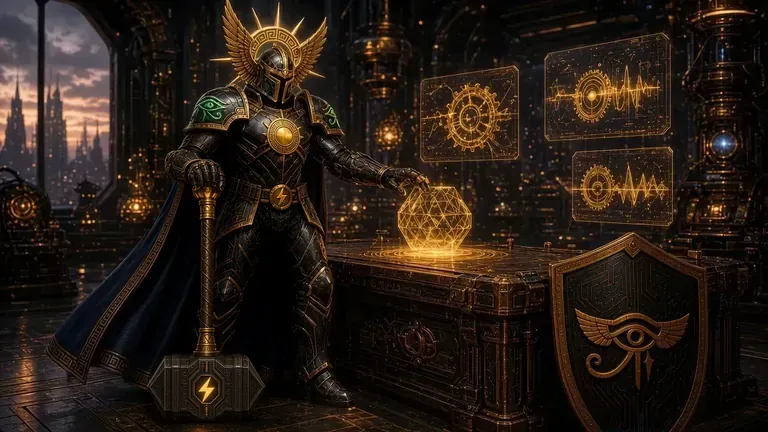
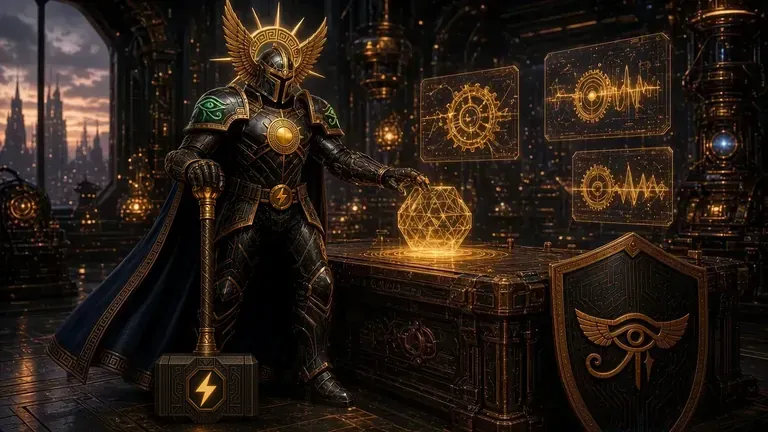
EYES-CANON-3: redo to match Sherif's three examples (8:30 PM)
Far-shoulder Eye of Horus in the examples' line style, near-shoulder blobs painted out
(Launch, Shard, Forge thumbs); examples hero hammer gets the employ bolt panel.
Chat hero and Forge hammer already match the examples, so they go back to main.
ART-CANON: 8:30 PM rulings, shoulder-eye placement, two suit styles.

Changed region(s): [[0.1875, 0.8125, 0.3438, 0.963]]

diff --git a/tests/hero-uniqueness.test.js b/tests/hero-uniqueness.test.js
@@ -290,7 +290,7 @@ assert(oldHits.length === 0, 'old relay-station / field-lab / gox-beacon / citad
 /* ART-UPLIFT-3: pilot gets new scoped-workbench art (Sherif 8:41 PM) and examples a canon redo (hammer bolt on both faces).
    EXAMPLES-NO-HAMMER-1 (Sherif 5:10 PM ET, Nov 25): the examples hero has the hammer removed, so its byte pins moved, and it has a new file stem so cache-first sw.js serves the new picture.
    EXAMPLES-CANON-2 (Sherif 6:01 PM ET, Nov 25): canon hammer leaning back in, new '-c2' stem and byte pins.
-   EYES-CANON-3 (Sherif 8:00 PM ET, Nov 25): hammer head given its canon hexagonal hump ends, new '-c3' stem and byte pins. */
+   EYES-CANON-3 (Sherif 8:30 PM ET, Nov 25): hammer head matched to his employ/pilot examples (plain block, bolt panel), new '-c3' stem and byte pins. */
 var supplied = {
   'assets/art/hero-contact-comms-district-1672.webp': 244690,
   'assets/art/hero-contact-comms-district-768.webp': 76200,
@@ -298,8 +298,8 @@ var supplied = {
   'assets/art/hero-moment-research-garden-768.webp': 82366,
   'assets/art/hero-docs-archive-light-1280.webp': 157536,
   'assets/art/hero-docs-archive-light-768.webp': 73704,
-  'assets/art/hero-examples-workbench-c3-1280.webp': 131992,
-  'assets/art/hero-examples-workbench-c3-768.webp': 57114,
+  'assets/art/hero-examples-workbench-c3-1280.webp': 131470,
+  'assets/art/hero-examples-workbench-c3-768.webp': 57084,
   'assets/art/hero-gox-storm-signal-1280.webp': 147906,
   'assets/art/hero-gox-storm-signal-768.webp': 70348,
   'assets/art/hero-legal-hall-records-1280.webp': 91930,

diff --git a/tests/art-uplift-2.test.js b/tests/art-uplift-2.test.js
@@ -118,7 +118,7 @@ assert(legalClass['licence.html'].indexOf('rt-art-hero-wide') === -1, 'licence k
 /* 3. Destination thumbnails on section cards (ART-UPLIFT-3: re-cut from the new chat, shard, forge, employ and launch heroes). */
 var THUMBS = {
   'Launch-Ra-Thor.html': [
-    ['/chat.html', 'chat-library-counsel-eyes'],
+    ['/chat.html', 'chat-library-counsel'],
     ['/sovereign-shard.html', 'shard-guardian-sanctum-c3'],
     ['/web-forge.html', 'forge-anvil-lattice-c3'],
     ['/employ.html', 'employ-commission-hall'],
@@ -155,8 +155,7 @@ Object.keys(THUMBS).forEach(function (page) {
     });
     /* The thumbnail is a crop of the destination page's own hero. */
     var dest = pair[0].replace(/^\//, '');
-    /* EXAMPLES-NO-HAMMER-1 / EXAMPLES-CANON-2 / EYES-CANON-3: a '-nh', '-c2' or '-c3' stem is the same crop, repainted (new name so cache-first sw.js refreshes it).
-       The chat thumb follows the chat hero's own '-eyes' stem, so it matches without stripping. */
+    /* EXAMPLES-NO-HAMMER-1 / EXAMPLES-CANON-2 / EYES-CANON-3: a '-nh', '-c2' or '-c3' stem is the same crop, repainted (new name so cache-first sw.js refreshes it). */
     assert(heroIdByPage[dest] === 'hero-' + id.replace(/-(nh|c2|c3)$/, ''), page + ' card to ' + dest + ' shows that page\'s hero (' + heroIdByPage[dest] + ')');
     /* The card stays one link: either the card is the <a>, or it has exactly one stretched link. */
     var openers = ['<a href="' + pair[0] + '" class="rt-card-uniform', '<div class="rt-card-uniform', '<section class="rt-example-card'];

diff --git a/chat.html b/chat.html
@@ -121,7 +121,7 @@
 
   <main class="relative z-10 flex-1 flex flex-col max-w-3xl w-full mx-auto px-3 sm:px-4 py-3" data-rt-prose>
     <figure class="rt-art-hero rounded-2xl">
-      <img src="/assets/art/hero-chat-library-counsel-eyes-768.webp" srcset="/assets/art/hero-chat-library-counsel-eyes-768.webp 768w, /assets/art/hero-chat-library-counsel-eyes-1672.webp 1672w" sizes="(max-width: 780px) 100vw, 736px" width="1672" height="941" alt="Ra-Thor sits in a moonlit library alcove with his lightning-marked hammer and black and gold shield, listening closely to a young traveler in a teal hooded cloak, with soft gold lights floating between them." fetchpriority="high" decoding="async">
+      <img src="/assets/art/hero-chat-library-counsel-768.webp" srcset="/assets/art/hero-chat-library-counsel-768.webp 768w, /assets/art/hero-chat-library-counsel-1672.webp 1672w" sizes="(max-width: 780px) 100vw, 736px" width="1672" height="941" alt="Ra-Thor sits in a moonlit library alcove with his lightning-marked hammer and black and gold shield, listening closely to a young traveler in a teal hooded cloak, with soft gold lights floating between them." fetchpriority="high" decoding="async">
     </figure>
     <div class="mb-2.5 rounded-2xl border border-amber-300/20 bg-zinc-950/80 px-3 py-2.5">
       <div class="flex flex-wrap items-center gap-1.5 mb-2">

diff --git a/Launch-Ra-Thor.html b/Launch-Ra-Thor.html
@@ -50,7 +50,7 @@ body { font-family: 'Inter', system-ui, sans-serif; }
 
         <div class="mt-12 grid md:grid-cols-2 gap-5 rt-card-grid rt-card-grid--md">
             <a href="/chat.html" class="rt-card-uniform block rounded-3xl p-7 sm:p-8 hover:border-amber-300/70 transition-colors">
-                <img class="rt-card-thumb" src="/assets/art/thumb-chat-library-counsel-eyes-480.webp" srcset="/assets/art/thumb-chat-library-counsel-eyes-480.webp 480w, /assets/art/thumb-chat-library-counsel-eyes-720.webp 720w" sizes="(min-width: 768px) 440px, calc(100vw - 6rem)" width="720" height="315" alt="" loading="lazy" decoding="async">
+                <img class="rt-card-thumb" src="/assets/art/thumb-chat-library-counsel-480.webp" srcset="/assets/art/thumb-chat-library-counsel-480.webp 480w, /assets/art/thumb-chat-library-counsel-720.webp 720w" sizes="(min-width: 768px) 440px, calc(100vw - 6rem)" width="720" height="315" alt="" loading="lazy" decoding="async">
                 <div class="text-amber-300 text-xs font-semibold tracking-wider" data-i18n="launchChatKicker">LATTICE CHAT</div>
                 <div class="mt-1 text-xs text-white/45" data-i18n="launchChatMeta">14.15.6 · privacy-first surface</div>
                 <div class="mt-3 text-2xl sm:text-3xl font-semibold" data-i18n="launchChatTitle">Offline-first sessions</div>

diff --git a/tests/art-uplift-3.test.js b/tests/art-uplift-3.test.js
@@ -18,7 +18,7 @@ function figure(html) {
 var NEW = {
   "Launch-Ra-Thor.html": "hero-launch-lattice-terrace",
   "briefing.html": "hero-briefing-bridge-landing",
-  "chat.html": "hero-chat-library-counsel-eyes",
+  "chat.html": "hero-chat-library-counsel",
   "employ.html": "hero-employ-commission-hall",
   "web-forge.html": "hero-forge-anvil-lattice",
   "sovereign-shard.html": "hero-shard-guardian-sanctum",

diff --git a/docs/ART-CANON.md b/docs/ART-CANON.md
@@ -8,17 +8,28 @@ Labels: **Ruling** means a Sherif quote below directly supports the item ("via t
 
 ## Hammer
 
-**Model (Ruling, 3:00 PM ET Nov 25):** the hammers in the chat.html hero (`assets/art/hero-chat-library-counsel-eyes-*.webp`; renamed from `hero-chat-library-counsel-*` in EYES-CANON-3, hammer untouched) and the pilot.html hero (`assets/art/hero-pilot-scoped-workbench-*.webp`, the hammer on the table) are the model for every hero. Where the 2:17 PM reference image and these two hammers differ, the two model hammers win.
+**Model (Ruling, 3:00 PM ET Nov 25):** the hammers in the chat.html hero (`assets/art/hero-chat-library-counsel-*.webp`) and the pilot.html hero (`assets/art/hero-pilot-scoped-workbench-*.webp`, the hammer on the table) are the model for every hero. Where the 2:17 PM reference image and these two hammers differ, the two model hammers win.
 
-- **Head (Ruling, 2:15 PM and 3:00 PM):** one complete, symmetric rectangular block head of dark bronze-iron, with both ends intact, chamfered corners and carved knotwork relief, as on the model hammers. It must never be truncated, cut off or shaved flat.
-- **Ends (Ruling, 8:00 PM, via the model):** each end of the head has the triangular humps of the chat.html model hammer: pointed, hexagonal end faces, never a plain flat rectangle.
-- **Centre (Ruling, 3:00 PM, via the model):** a recessed dark hexagonal panel framed in gold, holding a glowing gold lightning bolt (like the ⚡ emoji). There is no eye, gem or text on the hammer.
+**Examples (Ruling, 8:30 PM ET Nov 25):** his three good examples are the whitepaper hero (the docs cover picture of Ra-Thor reading a book, no hammer), the employ.html hero (`assets/art/hero-employ-commission-hall-*.webp`, the hammer standing head-down) and the pilot.html hero (the hammer on the table). The employ.html and pilot.html hammers are the ones to copy. The chat.html hammer's pointed end faces are not copied.
+
+- **Head (Ruling, 2:15 PM, 3:00 PM and 8:30 PM):** one complete, symmetric block head of dark bronze-iron, as on the employ.html and pilot.html hammers: a squared-off block with both ends intact, bevelled (chamfered) edges and corners, and carved knotwork relief. It must never be truncated, cut off or shaved flat.
+- **Ends (Ruling, 8:30 PM):** "Both the hammers and the shoulder eyes are off canon; match my 3 examples". The ends are flat, bevelled block ends like the employ.html and pilot.html hammers, with no pointed or hexagonal humps. The 8:00 PM "triangular humps" are read as those bevelled corners. *Inference (Wild), not a Sherif ruling.*
+- **Centre (Ruling, 3:00 PM and 8:30 PM, via the examples):** a recessed dark hexagonal or elongated-octagon panel framed in gold, holding a glowing gold lightning bolt (like the ⚡ emoji). There is no eye, gem or text on the hammer.
 - **Top (Ruling, 1:22 PM, 1:43 PM and 3:00 PM):** nothing on top of the head, so no cone, triangle or spike.
 - **Neck (Ruling, 3:00 PM, via the model):** a round gold boss or stud where the haft enters the head, with gold ring bands below it, as on the model hammers. There is no gold triangle or cone at the head.
 - **Haft (Ruling, 1:32 PM and 3:00 PM):** the hammer always has its handle. It is long, slim, dark, cross-hatched (wrapped) and has thin gold bands, as on the model hammers.
 - **Pommel (Ruling, 3:00 PM, via the model):** a gold cone at the bottom end of the haft only.
 - **Scale:** heroic, with the head about as wide as his shoulders or hips. *Inference (Wild), not a Sherif ruling.* The two model hammers are shown at different distances and do not settle the scale.
 - **Which faces carry the bolt:** *unruled.* The model hammers show the bolt on the one visible face.
+
+## Shoulder eye (Ruling, 8:30 PM, via the examples)
+
+- One large Eye of Horus in bright, glowing emerald-green line art (brow, eye outline, round pupil, teardrop line and spiral tail) sits centred on the far pauldron (his left, the shield side). It is about half the pauldron's width, on black-and-gold armour, sometimes with a dark green tint on the plate.
+- In the whitepaper and pilot heroes the near pauldron shows no eye. In the employ hero only a sliver of an eye shows at its edge. So no extra eye is added to a near pauldron.
+
+## Two suit styles (Ruling, 8:30 PM)
+
+Ra-Thor has two personified suits that are thematically similar, like Batman wearing different suits. Sherif, verbatim: "I'm aware we have 2 personified styles active for Ra-Thor like Batman wearing different yet thematically similar suits, Mate". Both keep the black-and-gold armour, the winged helmet with a halo, the green Eye of Horus on the shoulder and the lightning-bolt hammer. For site heroes, his three examples above set which details to copy.
 
 ## Shield
 
@@ -31,7 +42,7 @@ Labels: **Ruling** means a Sherif quote below directly supports the item ("via t
 
 None of these has a Sherif quote on file in this record. Each comes from the ART-UPLIFT-3 card brief (Lead Mate, Nov 23 2026), and each is *Inference (Wild), not a Sherif ruling*:
 
-- The shoulder seal is a winged Eye of Horus in emerald green.
+- The shoulder seal is an Eye of Horus in emerald green. Its size and placement are now ruled (see Shoulder eye).
 - No real-person likeness.
 - Robots and drones protect, never harm.
 - No text in images.
@@ -53,6 +64,8 @@ None of these has a Sherif quote on file in this record. Each comes from the ART
 | 2:18 PM | "Make sure to keep everything Cannon for future use as we make decisions permanent." | This file is the permanent record. |
 | 3:00 PM | "Chat.html and pilot.html have correct hammers the rest should follow them" | The chat.html and pilot.html hero hammers are the model for every hero (see Hammer). The other six hammers (Launch-Ra-Thor, briefing, employ, web-forge, examples and sovereign-shard) were repainted to follow them. |
 | 5:10 PM (Nov 25) | "All 4 images on this page have incorrect hammer cannon. Maybe an easy fix is to remove the hammer from these 4?" | On examples.html the hammer was taken out of the hero and the three card thumbnails (Launch, Shard demo, Forge). The sovereign-shard, web-forge and Launch-Ra-Thor page heroes keep their hammers. The Shard and Forge thumbnails are also shown on Launch-Ra-Thor.html. |
-| 6:01 PM (Nov 25) | "These attached images of Ra-Thor personified have good green shoulder eyes, while some of the other art doesn’t correctly yet. Also, the Examples Page suffers from this plus the Forge card is lackluster without the hammer, let's put it in properly for that image and leave the others on Examples page hammerless except for the hero, which should be fixed with hammer properly leaning on it as it used to be, but with proper cannon hammer, Mate:" | **Ruling (shoulder eyes):** each visible shoulder pauldron carries a clear, glowing green Eye of Horus, like his three reference images (the standing examples hero, the Mercy Thunder art with the hammer, and the whitepaper reading art). On examples.html the hero has a canon hammer leaning beside him again, the Forge card has a canon hammer back in his hand, and the Launch and Shard cards stay hammerless. All three cards got green eyes on both visible shoulders. |
-| 7:59 PM (Nov 25) | "Shoulders green eye of horus needs to be corrected in these ones." (with live screenshots of the examples Launch, Shard and Forge cards and the chat.html hero) | Same shoulder-eye ruling as 6:01 PM. EYES-CANON-3 repainted the near-shoulder eye on the Launch, Shard and Forge card thumbnails (new `-c3` stems, also shown on Launch-Ra-Thor.html) and added the missing near-shoulder eye on the chat.html hero (new `-eyes` stem, with the chat card thumbnail on Launch-Ra-Thor.html re-cut to match). |
-| 8:00 PM (Nov 25) | "While at it, make the hammers properly canonical where they accidentally are a rectangle without the triangular humps of the metal hammer top." | Hammer heads must have the hexagonal hump ends of the chat.html model (see Hammer, Ends). EYES-CANON-3 reshaped the Forge card hammer and the examples hero hammer (new `-c3` stems). The chat.html hammer was not touched. |
+| 6:01 PM (Nov 25) | "These attached images of Ra-Thor personified have good green shoulder eyes, while some of the other art doesn’t correctly yet. Also, the Examples Page suffers from this plus the Forge card is lackluster without the hammer, let's put it in properly for that image and leave the others on Examples page hammerless except for the hero, which should be fixed with hammer properly leaning on it as it used to be, but with proper cannon hammer, Mate:" | **Ruling (shoulder eyes):** each visible shoulder pauldron carries a clear, glowing green Eye of Horus, like his three reference images (the standing examples hero, the Mercy Thunder art with the hammer, and the whitepaper reading art). On examples.html the hero has a canon hammer leaning beside him again, the Forge card has a canon hammer back in his hand, and the Launch and Shard cards stay hammerless. All three cards got green eyes on both visible shoulders. **Partly superseded** by 8:30 PM: the eye goes where his examples show it (see Shoulder eye). |
+| 7:59 PM (Nov 25) | "Shoulders green eye of horus needs to be corrected in these ones." (with live screenshots of the examples Launch, Shard and Forge cards and the chat.html hero) | The first EYES-CANON-3 repaint (bigger eyes on both shoulders) was rejected at 8:30 PM. See the 8:30 PM rows for what shipped. |
+| 8:00 PM (Nov 25) | "While at it, make the hammers properly canonical where they accidentally are a rectangle without the triangular humps of the metal hammer top." | **Superseded** by 8:30 PM. The first EYES-CANON-3 repaint gave hammers hexagonal hump ends, and Sherif rejected it. |
+| 8:30 PM (Nov 25) | "This is off canon entirely. Use these good examples. I'm aware we have 2 personified styles active for Ra-Thor like Batman wearing different yet thematically similar suits, Mate" | The whitepaper, employ.html and pilot.html heroes are his good examples (see Hammer, Examples; Shoulder eye; Two suit styles). |
+| 8:30 PM (Nov 25, asked which part) | "Both the hammers and the shoulder eyes are off canon; match my 3 examples" | EYES-CANON-3 redone from the live main pictures. On the Launch, Shard and Forge card thumbnails (new `-c3` stems, also on Launch-Ra-Thor.html), the far-shoulder eye was repainted in the examples' line style and the green blob on the near shoulder was painted out. The examples hero hammer head got the employ.html bolt panel and carved relief (new `-c3` stem). The chat.html hero already matches the examples (eye on the far shoulder only) and is unchanged. The Forge card hammer already matches the pilot.html hammer and is unchanged. |
